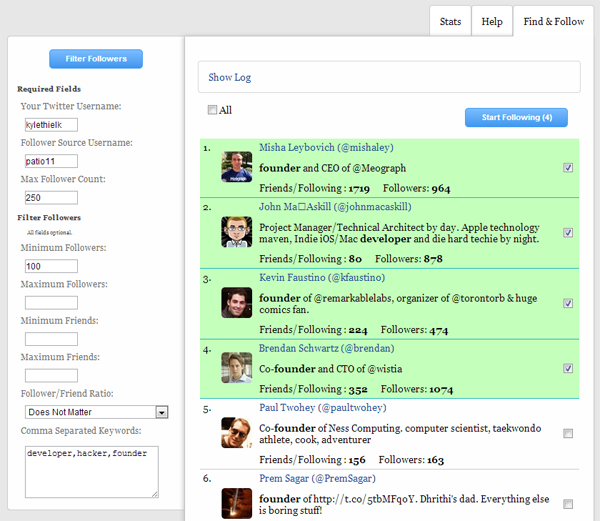
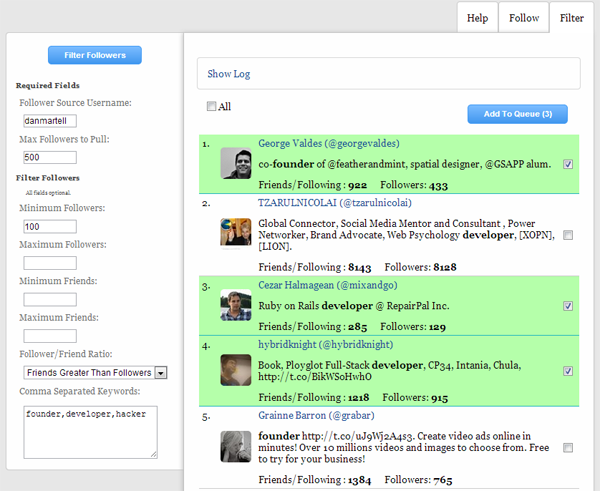
Updated README and screenshots to show new queue feature.

diff --git a/index.html b/index.html
@@ -15,7 +15,7 @@
     <ul class="tab-wrapper">
         <li id="helpPageTab" onclick="FindToFollow.changePage('helpPage');">Help</li>
         <li id="followPageTab" onclick="FindToFollow.changePage('followPage');">Follow</li>
-        <li id="filterPageTab" onclick="FindToFollow.changePage('filterPage');" class="tab-selected">Find & Follow</li>
+        <li id="filterPageTab" onclick="FindToFollow.changePage('filterPage');" class="tab-selected">Filter</li>
     </ul>
     <div id="followPage" class="page" style="display:none">
         <div class="leftColumn">

diff --git a/README.md b/README.md
@@ -3,9 +3,9 @@ twitter-findtofollow
 
 A PHP tool to find and filter potential users to follow.
 
-Written to automate the task of finding interesting and similar users that are likely to follow you back. The potential users are drawn from the followers of one user you specify. A list of criteria is then applied to each user in order to filter out those that are of little interest.
+Written to automate the task of finding interesting and similar users that are likely to follow you back. The potential users are drawn from the followers of one user you specify. A list of criteria is then applied to each user in order to filter out those that are of little interest. These filtered users are used to build up a queue of users that we can then start following automatically.
 
-The selected users can then be followed automatically at random intervals generated between a specified minimum and maximum.  
+The selected users can then be followed automatically at random intervals generated between a specified minimum and maximum by processing the queue.
 
 The application caches user profile information to cut down on Twitter API calls and network traffic. All caching is done on the local file system as I explicity wanted to avoid any reliance on a DB.
 
@@ -20,12 +20,19 @@ Instructions
 
 Assuming you have a server capable of running php, the only non-standard requirement is that cURL is installed and activated. Personally I've been running [WAMP Server](http://www.wampserver.com/).
 
-Rename **config.php.txt** to **config.php**. Then add your Twitter API keys into config.php. Note your api keys must have read/write access.
+Rename **Config.php.txt** to **Config.php**. Then add your Twitter API keys and your twitter username into Config.php. Note your api keys must have read/write access.
 
 Then simply load index.html in your browser and let the application do the rest.
 
 Updates
 -------
+
+**June 9, 2013** - Release 1.0 has been branched off. This branch contains the last code that forces following without the use of a queue. Now all filtered users are first added to a queue, and then the queue is processed independently from filtering.  Before upgrading to latest code either 
+
+- Switch to release-1.0 branch and continue on as normal, **OR**
+- Stay on Develop and start using the queue mechanism.
+
+Highly recommended to backup your userdata directory during any upgrade, just in case.
 
 **June 3, 2013** - You can now follow other users automatically from within the application. No more opening 25 tabs at once to follow users. The following is done automatically and is staggered based on a time range you specifiy. 
 
